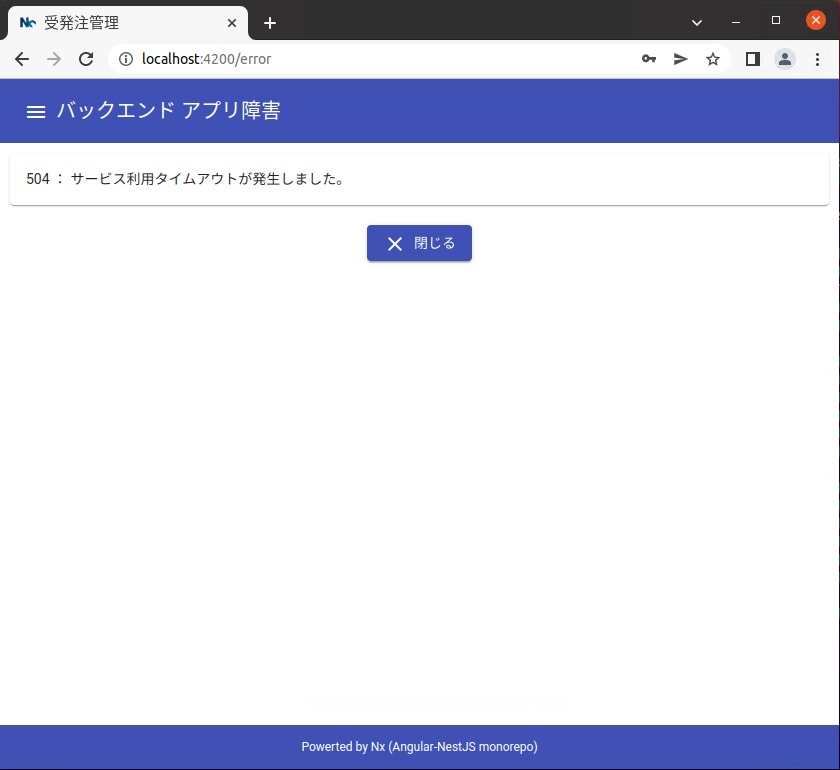
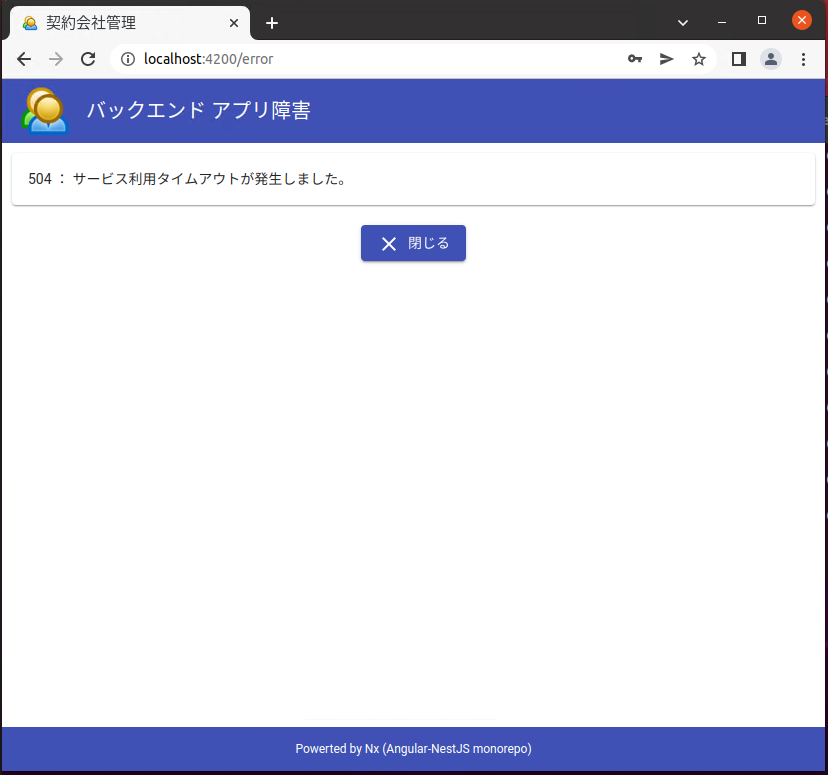
6th step commit

diff --git a/apps/api/src/app/users/users.service.ts b/apps/api/src/app/users/users.service.ts
@@ -8,8 +8,10 @@ import { UserItem,
 
 import { join } from 'path';
 import { resolve } from 'path';
-import { readFileSync } from 'fs';
+import { readFileSync, writeFileSync } from 'fs';
 import { parse } from 'csv-parse/sync'
+import { stringify } from 'csv-stringify';
+
 
 
 @Injectable()
@@ -24,7 +26,7 @@ export class UsersService {
    */
   loadUsers() { 
     const FILE = join(resolve(), 'data/UserItemList.csv');
-    console.log('対象ファイルのパス:', FILE);
+    console.log('loadUsers:file=', FILE);
 
     // CSVロード&解析
     const data = readFileSync(FILE);
@@ -43,10 +45,28 @@ export class UsersService {
        && record['telephone'] != undefined
        && record['address'] != undefined
        && record['account'] != undefined
-       && record['password'] != undefined) {
+       && record['password'] != undefined
+       && record['deleted'] != undefined) {
           // console.log('record match');
           this.users.push(record);
       }
+    }
+  }
+
+  /**
+   * @name saveUsers
+   * @description users を CSV に書き出す
+   */
+  saveUsers() { 
+    const FILE = join(resolve(), 'data/UserItemList.csv');
+    console.log('saveUsers:file=', FILE);
+
+    if (this.users) {
+      stringify(this.users,
+        { header: true, quoted_string: true}, 
+        function(err, output) {
+          writeFileSync(FILE, output);
+      });
     }
   }
 
@@ -57,7 +77,15 @@ export class UsersService {
    */
   getUsers(): GetUserItemArrayResponseBody {
     this.loadUsers();
-    console.log('getUsers:件数=', (this.users) ? this.users.length : 'empty');
+    const allcount = (this.users) ? this.users.length : 'empty';
+    console.log('getUsers:件数=', allcount);
+
+    if (allcount > 0) {
+      const deleted = this.users.filter(function(item) {
+        return item.deleted == "1";
+      });
+      console.log('削除件数=', (deleted) ? deleted.length : 'empty');
+    }
 
     const res: GetUserItemArrayResponseBody = {status: 0,
                                                item:  this.users};
@@ -88,35 +116,15 @@ export class UsersService {
    */
   deleteUser(id: string): DeleteUserItemResponseBody {
     console.log('deleteUser:id=', id);
+    this.loadUsers();
 
-    const res: DeleteUserItemResponseBody = {status: 0};
-    return res;
-  }
+    const index = this.users.findIndex(item => item.id == id);
+    if (index >= 0) {
+      this.users[index].deleted = "1";
+      this.saveUsers();
+    }
 
-  /**
-   * @name appendUser
-   * @description 情報追加
-   * @params UserItem
-   * @returns AppendUserItemResponseBody
-   */
-  appendUser(user: UserItem): DeleteUserItemResponseBody {
-    console.log('appendUser:company=', user.company);
-
-    const res: AppendUserItemResponseBody = {status: 0};
-    return res;
-  }
-
-  /**
-   * @name updateUser
-   * @description 情報更新
-   * @params UserItem
-   * @returns UpdateUserItemResponseBody
-   */
-
-  updateUser(user: UserItem): UpdateUserItemResponseBody {
-    console.log('updateUser:id=', user.id);
-
-    const res: UpdateUserItemResponseBody = {status: 0};
+    const res: UpdateUserItemResponseBody = {status: index >= 0 ? 0 : 1};
     return res;
   }
 

diff --git a/apps/demo/src/app/shared/error/error.component.ts b/apps/demo/src/app/shared/error/error.component.ts
@@ -21,7 +21,7 @@ export class ErrorComponent implements OnInit, OnDestroy {
   eno?: number;
   message = baseMessage;
   target = baseTarget;
-  headerTitle = "受発注管理";
+  headerTitle = "契約会社管理";
 
   constructor(
     private header: HeaderService,
@@ -35,19 +35,18 @@ export class ErrorComponent implements OnInit, OnDestroy {
       const routeState = this.router?.getCurrentNavigation()?.extras.state;
       console.log(routeState);
       if (routeState){
-        // 下記はもっとエレガントな書き方があると思うけど...勉強不足
         const stateCode = routeState['errorCode'];
         if (stateCode) {
             this.eno = Number(stateCode);
         }
-        const stateMessage = routeState['errorMessage'];
-        if (stateMessage) {
-            this.message = stateMessage;
-        }
-        const stateTarget = routeState['errorTarget'];
-        if (stateTarget) {
-          this.target = stateTarget;
-        }
+
+        // 条件分岐省略
+        // if (hoge) { bar = hoge; } else { bar = 'empty'; }
+        // ↓
+        // bar = hoge || 'empty';
+
+        this.message = routeState['errorMessage'] || this.message;
+        this.target = routeState['errorTarget'] || this.target;
       }
     } else {
       // app-routing 経由

diff --git a/apps/demo/src/app/users/user-list/user-list.component.ts b/apps/demo/src/app/users/user-list/user-list.component.ts
@@ -39,7 +39,7 @@ export class UserListComponent implements OnInit, OnDestroy {
   ngOnInit(): void {
     // header,footer表示
     this.header.setVisible(true);
-    this.header.setTitle("受発注管理 - アカウント一覧");
+    this.header.setTitle("契約会社管理 - 一覧");
     this.header.setLogoutVisible(true);
     this.footer.setVisible(true);
 
@@ -60,8 +60,12 @@ export class UserListComponent implements OnInit, OnDestroy {
     // ユーザ一覧取得
     this.service.getUsers().subscribe(result => {
       console.log('status:', result.status);
-      if (result.item != undefined && result.status == 0) {
-        this.dataSource = new MatTableDataSource(result.item);
+      if (result.status == 0) {
+        // deleted="1"を除外
+        var enabledItem = result.item?.filter(function(item) {
+          return item.deleted != "1";
+        });
+        this.dataSource = new MatTableDataSource(enabledItem);
       } else {
           this.router.navigate(["error"],
                                 {state:

diff --git a/apps/demo/src/app/users/user-edit/user-edit.component.ts b/apps/demo/src/app/users/user-edit/user-edit.component.ts
@@ -22,8 +22,8 @@ import { ConfirmDialogComponent } from '../../shared/dialog/confirm-dialog.compo
 })
 export class UserEditComponent implements OnInit, OnDestroy {
   blnPassVisible = true;
-  public user: UserItem = { company: "", email: "", telephone: "", address: "",
-                            id: "", account: "", password: "" };
+  public user: UserItem = { id: "", company: "", email: "", telephone: "", address: "",
+                            account: "", password: "", deleted: "" };
   id: string = '';
 
   constructor(
@@ -37,7 +37,7 @@ export class UserEditComponent implements OnInit, OnDestroy {
   ngOnInit(): void {
     // header,footer表示
     this.header.setVisible(true);
-    this.header.setTitle("受発注管理 - アカウント編集");
+    this.header.setTitle("契約会社管理 - 編集");
     this.header.setLogoutVisible(true);
     this.footer.setVisible(true);
   

diff --git a/apps/demo/src/app/shared/dialog/confirm-dialog.component.html b/apps/demo/src/app/shared/dialog/confirm-dialog.component.html
@@ -1,8 +1,10 @@
-<h2 mat-dialog-title>{{title}}</h2>
-<mat-dialog-content>
-  {{message}}
-</mat-dialog-content>
-<div mat-dialog-actions class="navi-box" align="end">
+<div class="modal-wrapper">
+  <h2 mat-dialog-title>{{title}}</h2>
+  <mat-dialog-content>
+    {{message}}
+  </mat-dialog-content>
+  <div mat-dialog-actions class="navi-box" align="end">
     <button mat-raised-button class="navi-button" color="primary" [mat-dialog-close]="true" tabindex="-1">{{okButtonText}}</button>
     <button mat-raised-button class="navi-button" mat-dialog-close tabindex="-1">{{cancelButtonText}}</button>
+  </div>
 </div>

diff --git a/apps/demo/src/app/shared/dialog/alert-dialog.component.html b/apps/demo/src/app/shared/dialog/alert-dialog.component.html
@@ -1,7 +1,9 @@
-<h2 mat-dialog-title>{{title}}</h2>
-<mat-dialog-content>
-  {{message}}
-</mat-dialog-content>
-<div mat-dialog-actions class="navi-box" align="end">
-    <button mat-raised-button color="primary" mat-dialog-close tabindex="-1">{{cancelButtonText}}</button>
+<div class="modal-wrapper">
+  <h2 mat-dialog-title>{{title}}</h2>
+  <mat-dialog-content>
+    {{message}}
+  </mat-dialog-content>
+  <div mat-dialog-actions class="navi-box" align="end">
+    <button mat-raised-button class="navi-button" color="primary" mat-dialog-close tabindex="-1">{{cancelButtonText}}</button>
+  </div>
 </div>

diff --git a/apps/demo/src/app/shared/dialog/confirm-dialog.component.ts b/apps/demo/src/app/shared/dialog/confirm-dialog.component.ts
@@ -22,6 +22,11 @@ export class ConfirmDialogComponent {
         buttonText: {ok: string, cancel: string} },
     private dialogRef: MatDialogRef<ConfirmDialogComponent>) {
     if (data) {
+      // 条件分岐省略
+      // if (hoge) { bar = hoge; } else { bar = 'empty'; }
+      // ↓
+      // bar = hoge || 'empty';
+
       this.title = data.title || this.title;
       this.message = data.message || this.message;
       if (data.buttonText) {

diff --git a/apps/demo/src/app/shared/dialog/alert-dialog.component.ts b/apps/demo/src/app/shared/dialog/alert-dialog.component.ts
@@ -22,6 +22,11 @@ export class AlertDialogComponent {
         buttonText: {cancel: string} },
     private dialogRef: MatDialogRef<AlertDialogComponent>) {
     if (data) {
+      // 条件分岐省略
+      // if (hoge) { bar = hoge; } else { bar = 'empty'; }
+      // ↓
+      // bar = hoge || 'empty';
+
       this.title = data.title || this.title;
       this.message = data.message || this.message;
       if (data.buttonText) {

diff --git a/apps/demo/src/app/login/login.component.html b/apps/demo/src/app/login/login.component.html
@@ -1,7 +1,7 @@
 <div class="main-container">
   <mat-card class="card-box">
     <mat-card-header>
-      <mat-card-title>受発注管理 - ログイン</mat-card-title>
+      <mat-card-title>契約会社管理 - ログイン</mat-card-title>
       <mat-card-subtitle>ユーザー名とパスワードを入力してください。</mat-card-subtitle>
     </mat-card-header>
     <mat-card-content>

diff --git a/apps/demo/src/app/shared/header/header.component.html b/apps/demo/src/app/shared/header/header.component.html
@@ -1,8 +1,8 @@
 <div *ngIf="headerVisible">
   <mat-toolbar color="primary">
-    <button mat-icon-button class="example-icon" aria-label="Example icon-button with menu icon">
-      <mat-icon>menu</mat-icon>
-    </button>
+    <div class="logo-wrapper">
+      <img src="assets/group.png" />
+    </div>
     <span>{{ headerTitle }}</span>
     <span class="spacer"></span>
 

diff --git a/apps/demo/src/index.html b/apps/demo/src/index.html
@@ -2,7 +2,7 @@
 <html lang="ja">
   <head>
     <meta charset="utf-8" />
-    <title>受発注管理</title>
+    <title>契約会社管理</title>
     <base href="/" />
     <meta name="viewport" content="width=device-width, initial-scale=1" />
     <link rel="icon" type="image/x-icon" href="favicon.ico" />

diff --git a/apps/demo/src/app/shared/header/header.component.ts b/apps/demo/src/app/shared/header/header.component.ts
@@ -13,7 +13,7 @@ import { HeaderService } from './header.service';
   styleUrls: ['./header.component.css']
 })
 export class HeaderComponent implements OnInit {
-  headerTitle = "受発注管理";
+  headerTitle = "契約会社管理";
   headerVisible: boolean = false; 
   logoutVisible: boolean = true;
 
